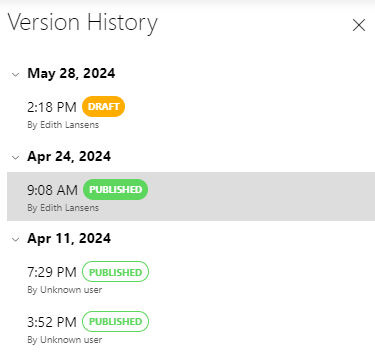
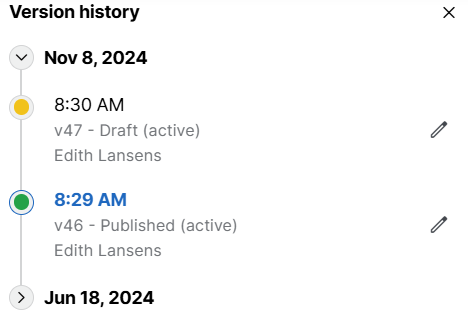
RN 41034

diff --git a/user-guide/Advanced_Modules/Dashboards_and_Low_Code_Apps/Low_Code_Apps/Low-Code_Apps_configuration/LowCodeApps_earlier_version.md b/user-guide/Advanced_Modules/Dashboards_and_Low_Code_Apps/Low_Code_Apps/Low-Code_Apps_configuration/LowCodeApps_earlier_version.md
@@ -18,13 +18,15 @@ To go back to a previous version of a low-code app:
 
    This will show the version history of the app.
 
-   ![Version history](~/user-guide/images/Version_History.png)<br>*Low-Code App version history in DataMiner 10.4.6*
+   ![Version history](~/user-guide/images/Version_History.png)<br>*Low-Code App version history in DataMiner 10.4.12*
 
-   - The currently published version, if any, is indicated with a green *Published* label. <!-- RN 32200 -->
+   - The currently published version, if any, is indicated with a green label. <!-- RN 32200 -->
 
-   - The current draft is indicated with an orange *Draft* label.
+   - The current draft is indicated with an orange label.
 
    - No label is displayed for old draft versions that were never published.
+
+   - From DataMiner 10.3.0 [CU21]/10.4.0 [CU9]/10.4.12 onwards<!--RN 41034-->, version numbers are included in the version history as well.
 
 1. Click the version you want to go back to. You can also click the pencil icon next to that version in the list to immediately start editing it.
 
